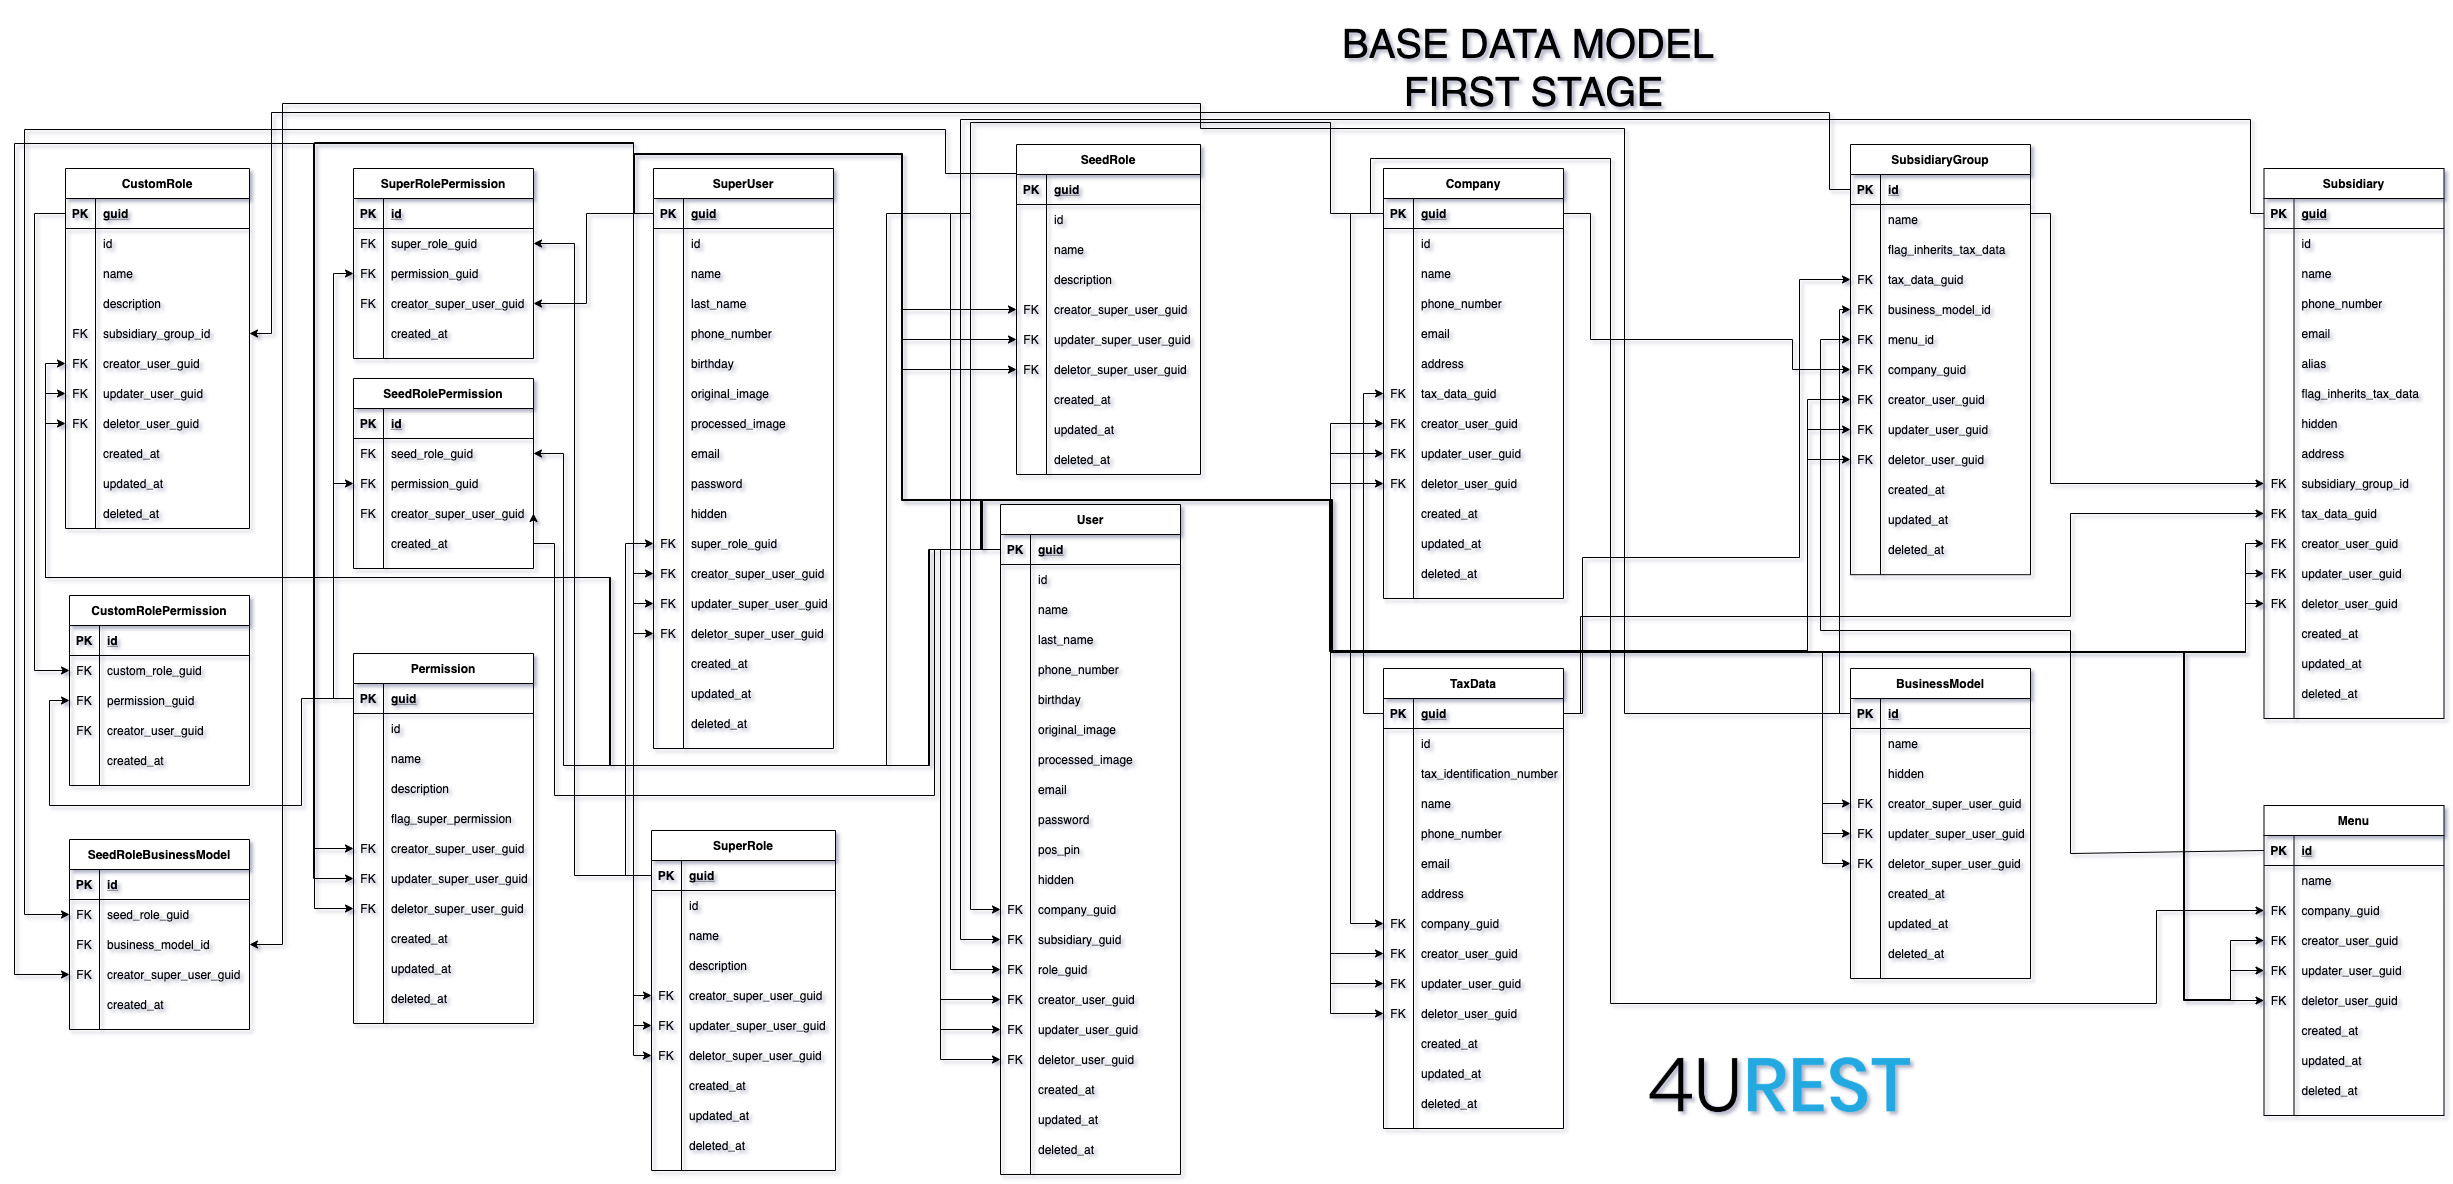
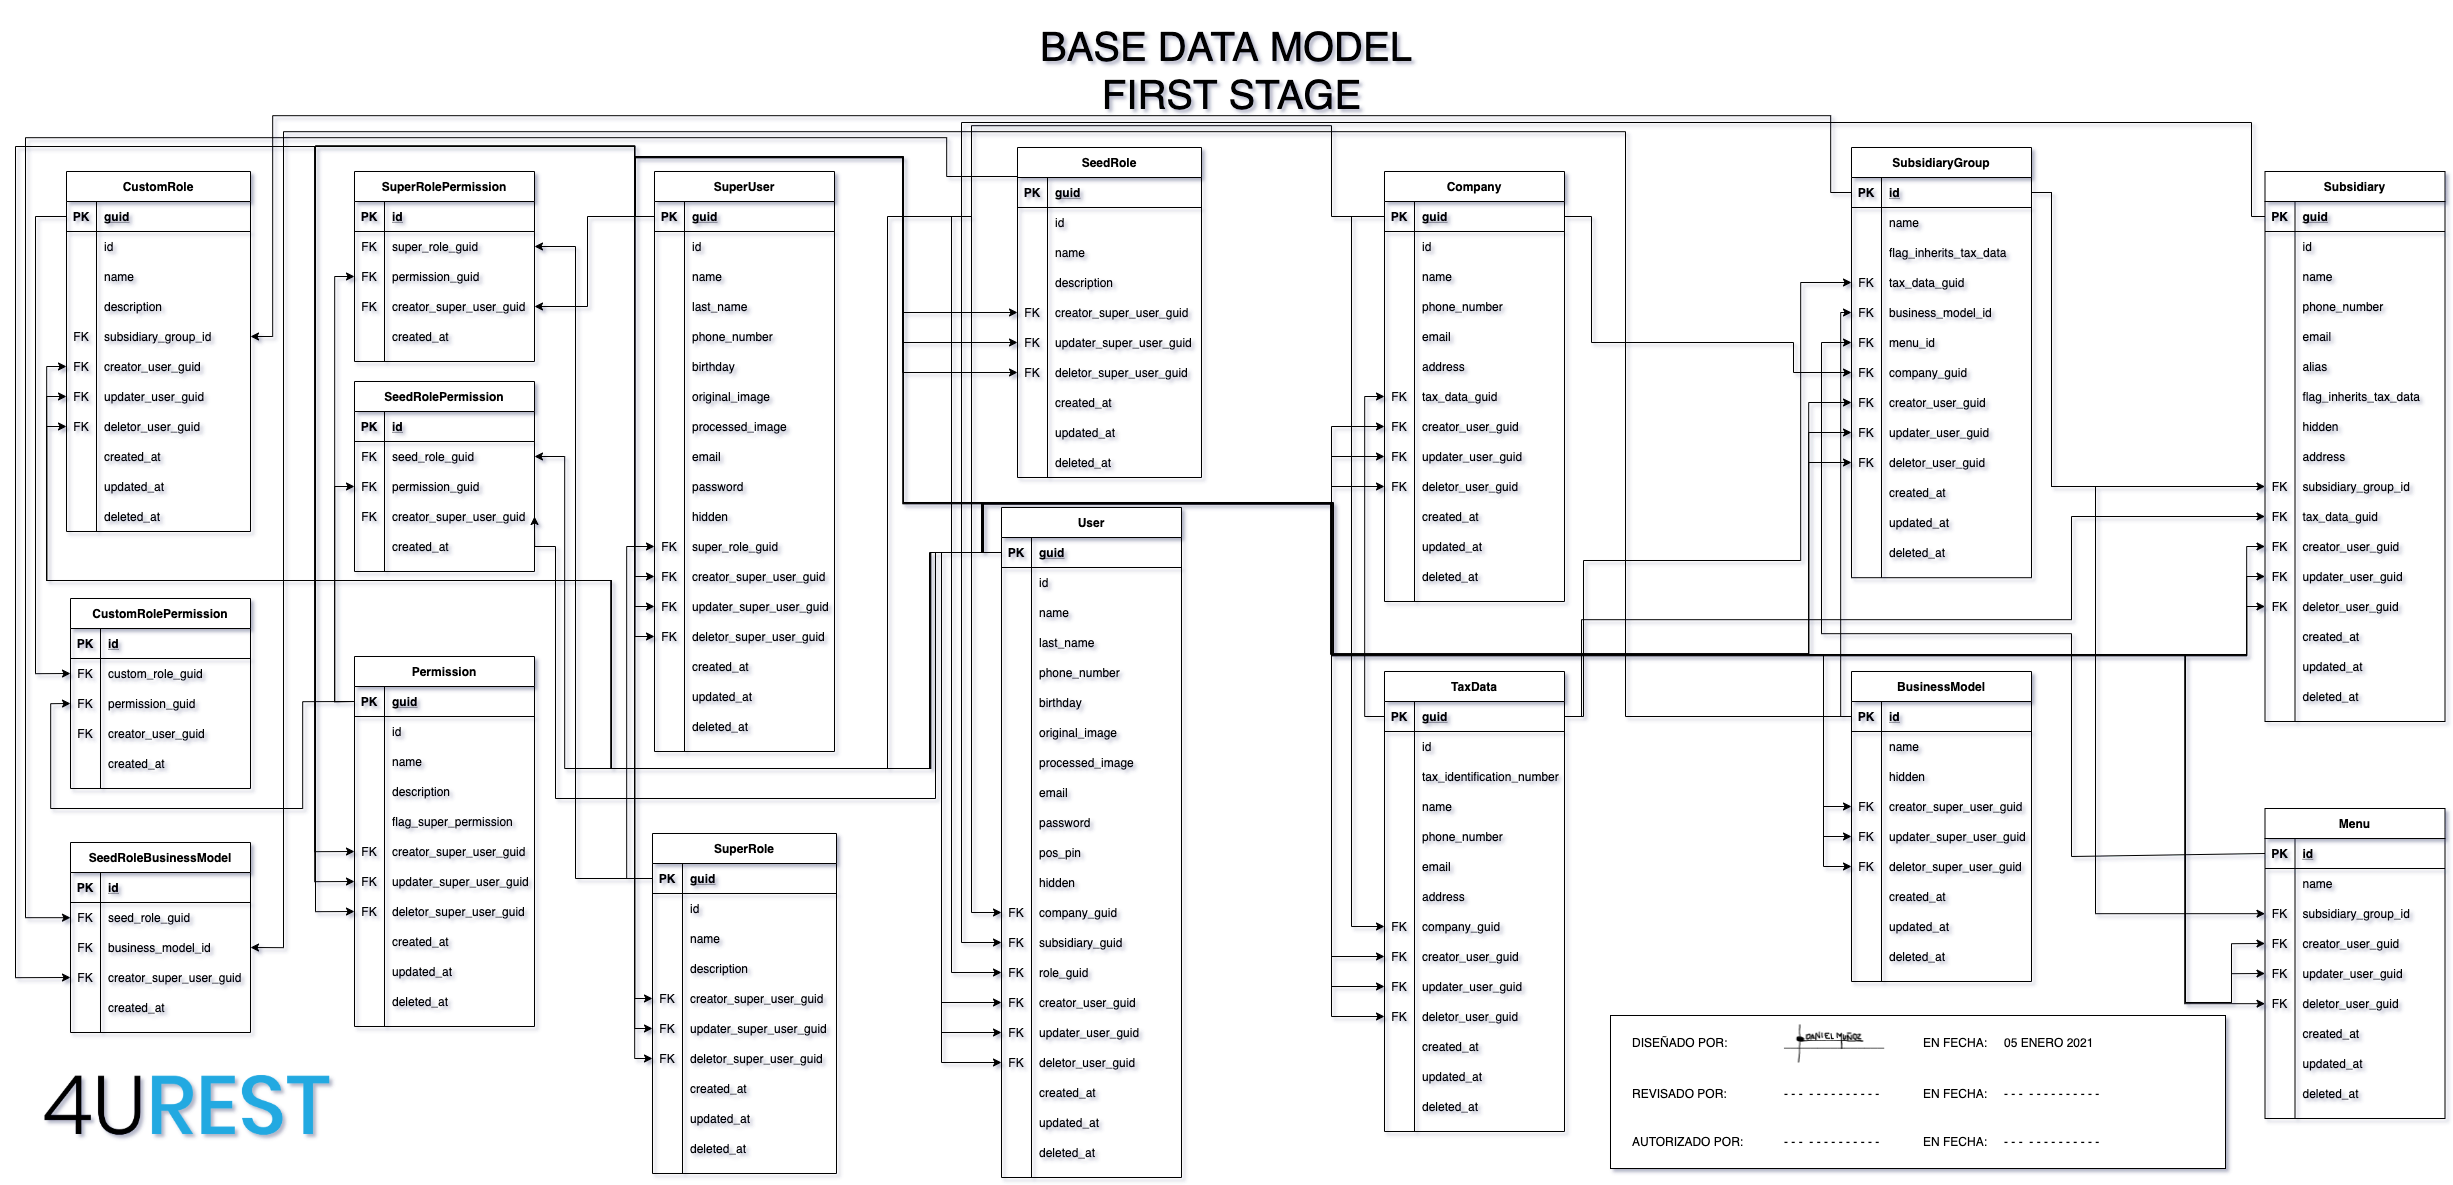
update

diff --git a/README.md b/README.md
@@ -36,7 +36,7 @@ En la **ETAPA I** del sistema, podrá ser capaz de ejecutar las siguientes opera
 | SubsidiaryGroup | name, business_model_id, company_guid | El usuario creador debe tener el rol autorizado para la acción. Se genera: id, created_at. Se cumple con campos de entrada mínimos y creator_user_guid | El usuario actualizador debe tener el rol autorizado para la acción. Se genera: updated_at. Se cumple con campos de entrada mínimos y updater_user_guid. | Que ninguna sucursal esté asignada al grupo de sucursales. El usuario eliminador debe tener el rol autorizado para la acción. Se genera: deleted_at. Se cumple con campo deletor_user_guid. |
 | Subsidiary | name, subsidiary_group_id | El usuario creador debe tener el rol autorizado para la acción. Se genera: id, created_at. Se cumple con campos de entrada mínimos y creator_user_guid | El usuario actualizador debe tener el rol autorizado para la acción. Se genera: updated_at. Se cumple con campos de entrada mínimos y updater_user_guid. | Que ningun usuario esté asignado a la sucursal. El usuario eliminador debe tener el rol autorizado para la acción. Se genera: deleted_at. Se cumple con campo deletor_user_guid. |
 | TaxData | tax_identification_number, name,  phone_number, email, address, company_guid | El usuario creador debe tener el rol autorizado para la acción. Se genera: guid, id, created_at. Se cumple con campos de entrada mínimos y creator_user_guid | El usuario actualizador debe tener el rol autorizado para la acción. Se genera: updated_at. Se cumple con campos de entrada mínimos y updater_user_guid. | Que ninguna empresa, grupo de sucursales o sucursal tenga asignados los datos fiscales. El usuario eliminador debe tener el rol autorizado para la acción. Se genera: deleted_at. Se cumple con campo deletor_user_guid. |
-| Menu | name, company_guid | El usuario creador debe tener el rol autorizado para la acción. Se genera: id, created_at. Se cumple con campos de entrada mínimos y creator_user_guid | El usuario actualizador debe tener el rol autorizado para la acción. Se genera: updated_at. Se cumple con campos de entrada mínimos y updater_user_guid. | Que ningun grupo de sucursales tenga el registro asignado. El usuario eliminador debe tener el rol autorizado para la acción. Se genera: deleted_at. Se cumple con campo deletor_user_guid. |
+| Menu | name, subsidiary_group_id | El usuario creador debe tener el rol autorizado para la acción. Se genera: id, created_at. Se cumple con campos de entrada mínimos y creator_user_guid | El usuario actualizador debe tener el rol autorizado para la acción. Se genera: updated_at. Se cumple con campos de entrada mínimos y updater_user_guid. | Que ningun grupo de sucursales tenga el registro asignado. El usuario eliminador debe tener el rol autorizado para la acción. Se genera: deleted_at. Se cumple con campo deletor_user_guid. |
 | CustomRole | name, subsidiary_group_id | El usuario creador debe tener el rol autorizado para la acción. Se genera: id, created_at. Se cumple con campos de entrada mínimos y creator_user_guid | El usuario actualizador debe tener el rol autorizado para la acción. Se genera: updated_at. Se cumple con campos de entrada mínimos y updater_user_guid. | Que ningun usuario del grupo de sucursales tenga el registro asignado. El usuario eliminador debe tener el rol autorizado para la acción. Se genera: deleted_at. Se cumple con campo deletor_user_guid. |
 | SeedRole | name | El super usuario creador debe tener el super rol autorizado para la acción. Se genera: id, created_at. Se cumple con campos de entrada mínimos y creator_super_user_guid | El super usuario actualizador debe tener el super rol autorizado para la acción. Se genera: updated_at. Se cumple con campos de entrada mínimos y updater_super_user_guid. | Que ningun usuario de ningún grupo de sucursales tenga el registro asignado. El super usuario eliminador debe tener el super rol autorizado para la acción. Se genera: deleted_at. Se cumple con campo deletor_user_guid. |
 | Permission | name, flag_super_permission | El super usuario creador debe tener el super rol autorizado para la acción. Se genera: id, created_at. Se cumple con campos de entrada mínimos y creator_super_user_guid | El super usuario actualizador debe tener el super rol autorizado para la acción. Se genera: updated_at. Se cumple con campos de entrada mínimos y updater_super_user_guid. | No se puede ejecutar la operación. |

diff --git a/basedata/entities/Menu.md b/basedata/entities/Menu.md
@@ -9,10 +9,10 @@ Entidad utilizada para gestionar el catálogo de productos y platillos en el sis
 La descripción de los campos de las entidades se presenta a continuación.
 
 | Tipo | Campo | Descripción |
-|-|-|-|
+|:-:|:-:|:-:|
 | int | id | Registro único y auto incrementable de la tabla. |
 | string | name | Representa el nombre asignado al menú. |
-| guid | company_guid | Campo que registra el guid de la empresa donde está asignado el menú. |
+| int | subsidiary_group_id | Id de registro del grupo de sucursales donde pertenece la sucursal. |
 | guid | creator_user_guid | Campo que registra el guid del creador del registro. |
 | guid | updater_user_guid | Campo que registra el guid del editor/modificador del registro. |
 | guid | deletor_user_guid | Campo que registra el guid del eliminador del registro. |
@@ -37,8 +37,8 @@ Diagrama de la base de datos [(Link aquí)](https://app.diagrams.net/#G12bfdBfGq
 Las reglas para las operaciones básicas y los campos mínimos requeridos de la entidad son:
 
 | Entitie | Campos de entrada mínimos | Reglas para Create | Reglas para Update | Reglas para Soft Delete |
-|:-:|:-:|:-:|:-:|:-:|
-| Menu | name, company_guid | El usuario creador debe tener el rol autorizado para la acción. Se genera: id, created_at. Se cumple con campos de entrada mínimos y creator_user_guid | El usuario actualizador debe tener el rol autorizado para la acción. Se genera: updated_at. Se cumple con campos de entrada mínimos y updater_user_guid. | Que ningun grupo de sucursales tenga el registro asignado. El usuario eliminador debe tener el rol autorizado para la acción. Se genera: deleted_at. Se cumple con campo deletor_user_guid. |
+|-|-|-|-|-|
+| Menu | name, subsidiary_group_id | El usuario creador debe tener el rol autorizado para la acción. Se genera: id, created_at. Se cumple con campos de entrada mínimos y creator_user_guid | El usuario actualizador debe tener el rol autorizado para la acción. Se genera: updated_at. Se cumple con campos de entrada mínimos y updater_user_guid. | Que ningun grupo de sucursales tenga el registro asignado. El usuario eliminador debe tener el rol autorizado para la acción. Se genera: deleted_at. Se cumple con campo deletor_user_guid. |
 
 ---
 
